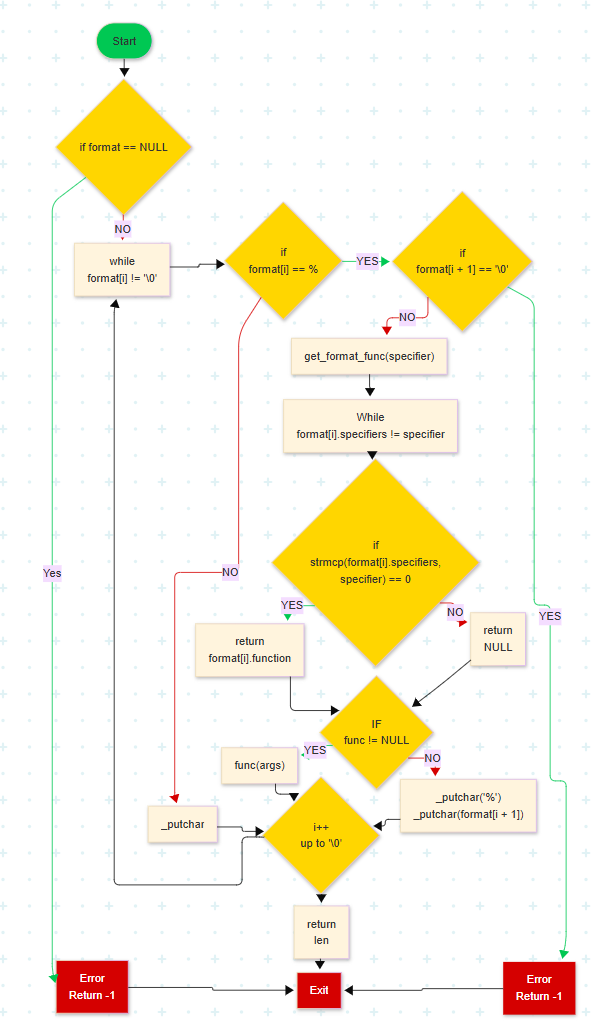
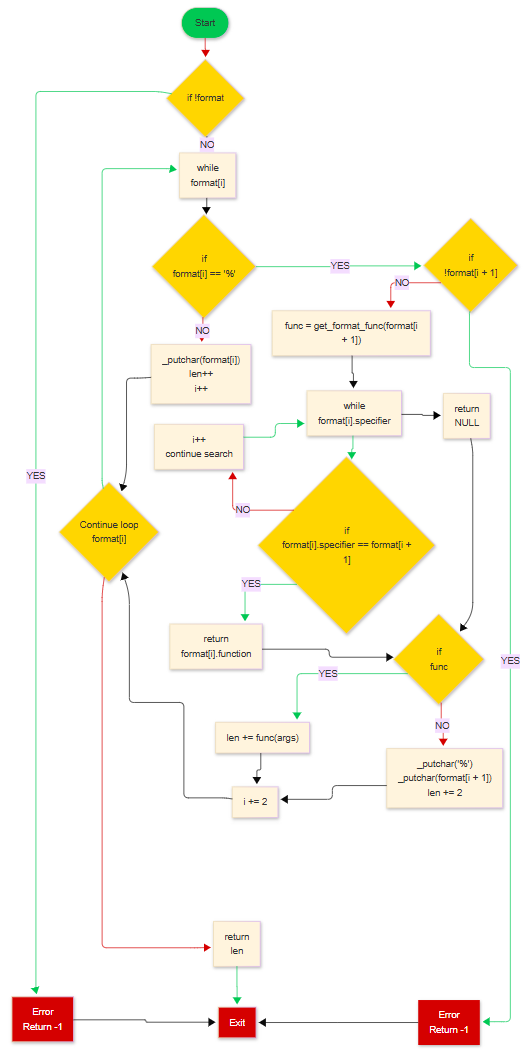
Optimize _printf implementation and enhance performance; refactor format handling and error management

diff --git a/get_format.c b/get_format.c
@@ -1,31 +1,29 @@
 #include "main.h"
-#include <stdlib.h>
 #include <stdarg.h>
-#include <string.h>
+#include <stddef.h>
 
 /**
  * get_format_func - Retrieves the function associated with a format specifier
- * @specifier: The format specifier to look for
+ * @specifier: The format specifier character to look for
  *
  * Return: Pointer to the function that handles the format specifier,
  * or NULL if not found.
  */
 
-int (*get_format_func(char *specifier))(va_list)
+int (*get_format_func(char specifier))(va_list)
 {
 	print_t format[] = {
-		{"c", print_char},
-		{"s", print_string},
-		{"%", print_percent},
-		{"d", print_decimal},
-		{"i", print_int},
-		{NULL, NULL}};
+		{'c', print_char},
+		{'s', print_string},
+		{'%', print_percent},
+		{'d', print_decimal},
+		{'i', print_int},
+		{'\0', NULL}};
+	int i = 0;
 
-int i = 0;
-
-	while (format[i].specifiers != NULL)
+	while (format[i].specifier)
 	{
-		if (strcmp(format[i].specifiers, specifier) == 0)
+		if (format[i].specifier == specifier)
 			return (format[i].function);
 		i++;
 	}

diff --git a/format.c b/format.c
@@ -66,9 +66,9 @@ int print_int(va_list args)
 {
 	int n = va_arg(args, int);
 	unsigned int num;
-	int divisor = 1;
-	unsigned int temp;
 	int count = 0;
+	char buffer[12];
+	int i = 0;
 
 	if (n < 0)
 	{
@@ -77,24 +77,26 @@ int print_int(va_list args)
 		num = -n;
 	}
 	else
-	{
 		num = n;
+
+	if (num == 0)
+	{
+		_putchar('0');
+		return (count + 1);
 	}
 
-	temp = num;
-	while (temp / 10 != 0)
+	while (num > 0)
 	{
-		divisor *= 10;
-		temp /= 10;
+		buffer[i++] = (num % 10) + '0';
+		num /= 10;
 	}
 
-	while (divisor != 0)
+	while (--i >= 0)
 	{
-		_putchar((num / divisor) + '0');
+		_putchar(buffer[i]);
 		count++;
-		num %= divisor;
-		divisor /= 10;
 	}
+
 	return (count);
 }
 

diff --git a/_printf.c b/_printf.c
@@ -15,25 +15,20 @@ int _printf(const char *format, ...)
 	va_list args;
 	int len = 0;
 	int i = 0;
-	char specifier[2];
 	int (*func)(va_list);
 
-	va_start(args, format);
-	if (format == NULL)
+	if (!format)
 		return (-1);
-	while (format[i] != '\0')
+	va_start(args, format);
+	while (format[i])
 	{
 		if (format[i] == '%')
 		{
-			if (format[i + 1] == '\0')
+			if (!format[i + 1])
 				return (-1);
-			specifier[0] = format[i + 1];
-			specifier[1] = '\0';
-			func = get_format_func(specifier);
-			if (func != NULL)
-			{
+			func = get_format_func(format[i + 1]);
+			if (func)
 				len += func(args);
-			}
 			else
 			{
 				_putchar('%');

diff --git a/main.h b/main.h
@@ -13,7 +13,7 @@
 
 typedef struct print
 {
-	char *specifiers;
+	char specifier;
 	int (*function)(va_list);
 } print_t;
 
@@ -21,7 +21,7 @@ int _putchar(char c);
 
 int _printf(const char *format, ...);
 
-int (*get_format_func(char *specifier))(va_list);
+int (*get_format_func(char specifier))(va_list);
 
 int print_char(va_list args);
 
@@ -32,7 +32,5 @@ int print_percent(va_list args);
 int print_int(va_list args);
 
 int print_decimal(va_list args);
-
-
 
 #endif

diff --git a/README.md b/README.md
@@ -25,6 +25,7 @@ Ce projet implémente une version simplifiée de la fonction `printf` de la bibl
 - ✅ Support des arguments variables
 - ✅ Retourne le nombre de caractères imprimés
 - ✅ Gestion des erreurs pour les spécificateurs non reconnus
+- ✅ Code optimisé et simplifié pour de meilleures performances
 - ✅ Code conforme aux standards de codage Holberton
 
 ## 🚀 Installation
@@ -82,26 +83,27 @@ holbertonschool-printf/
 ### Description des fichiers
 
 #### `main.h`
-Contient toutes les déclarations de fonctions et la structure `print_t` utilisée pour mapper les spécificateurs aux fonctions.
+Contient toutes les déclarations de fonctions et la structure `print_t` optimisée qui utilise des caractères simples au lieu de chaînes pour mapper les spécificateurs aux fonctions.
 
 #### `_printf.c`
-Implémente la fonction principale qui :
-- Parse la chaîne de format
-- Identifie les spécificateurs de format
-- Appelle les fonctions appropriées
-- Compte les caractères imprimés
+Implémente la fonction principale simplifiée qui :
+- Parse la chaîne de format caractère par caractère
+- Identifie les spécificateurs de format directement
+- Appelle les fonctions appropriées sans allocation temporaire
+- Compte précisément les caractères imprimés
 
 #### `get_format.c`
-Contient la fonction `get_format_func` qui :
-- Recherche le spécificateur dans le tableau de formats
+Contient la fonction `get_format_func` optimisée qui :
+- Compare directement les caractères de spécificateurs (plus rapide)
+- Utilise une structure simplifiée sans dépendances externes
 - Retourne un pointeur vers la fonction appropriée
 
 #### `format.c`
-Implémente les fonctions d'impression :
-- `print_char()` - Imprime un caractère
-- `print_string()` - Imprime une chaîne
-- `print_percent()` - Imprime le caractère %
-- `print_int()` - Imprime un entier (spécificateur %i)
+Implémente les fonctions d'impression optimisées :
+- `print_char()` - Imprime un caractère et retourne 1
+- `print_string()` - Imprime une chaîne et gère les valeurs NULL
+- `print_percent()` - Imprime le caractère % et retourne 1
+- `print_int()` - Imprime un entier avec algorithme optimisé (spécificateur %i)
 - `print_decimal()` - Imprime un entier décimal (spécificateur %d)
 
 ## 🔧 Compilation
@@ -202,19 +204,53 @@ int main(void)
 
 ## 🛠 Fonctionnement interne
 
-### Algorithme principal :
+### Algorithme principal (optimisé) :
 
 1. **Initialisation** : Setup des variables et de `va_list`
-2. **Parsing** : Parcours caractère par caractère de la chaîne de format
-3. **Détection** : Identification des spécificateurs (`%c`, `%s`, `%d`, `%i`, `%%`)
-4. **Exécution** : Appel de la fonction appropriée pour chaque spécificateur
-5. **Comptage** : Suivi du nombre de caractères imprimés
-6. **Retour** : Retourne le nombre total de caractères
+2. **Validation** : Vérification que `format` n'est pas NULL
+3. **Parsing** : Parcours direct caractère par caractère de la chaîne de format
+4. **Détection** : Identification des spécificateurs (`%c`, `%s`, `%d`, `%i`, `%%`) sans allocation temporaire
+5. **Exécution** : Appel direct de la fonction appropriée pour chaque spécificateur
+6. **Comptage** : Accumulation précise du nombre de caractères imprimés
+7. **Retour** : Retourne le nombre total de caractères
+
+### Optimisations implémentées :
+- **Comparaison directe** de caractères au lieu de chaînes (élimination de `strcmp`)
+- **Algorithme d'impression d'entiers** avec buffer temporaire (moins de divisions)
+- **Élimination des allocations** temporaires (tableau `specifier`)
+- **Gestion robuste** des cas limites (`INT_MIN`, chaînes NULL)
 
 ### Gestion des erreurs :
+- Format NULL : Retourne -1
+- Format se terminant par `%` : Retourne -1
 - Spécificateurs non reconnus : Imprime littéralement `%` + caractère
-- Format se terminant par `%` : Arrête le traitement
-- Chaîne NULL : Gérée dans `print_string()`
+- Chaîne NULL : Affiche `"(null)"` comme le vrai `printf`
+
+## 🚀 Performance et Architecture
+
+### Optimisations implémentées :
+
+#### **Structure de données simplifiée**
+```c
+typedef struct print
+{
+    char specifier;        // Caractère simple au lieu de chaîne
+    int (*function)(va_list);  // Fonction retournant le nb de caractères
+} print_t;
+```
+
+#### **Algorithme d'impression d'entiers optimisé**
+- Utilisation d'un buffer temporaire au lieu de divisions répétées
+- Gestion robuste de `INT_MIN` avec `unsigned int`
+- Une seule passe pour compter et imprimer
+
+#### **Comparaisons directes**
+- Élimination de `strcmp()` pour des comparaisons de caractères
+- Réduction des dépendances (pas de `<string.h>`)
+
+### Complexité :
+- **Temps** : O(n) où n est la longueur de la chaîne de format
+- **Espace** : O(1) pour les variables, O(k) pour le buffer d'entiers (k ≤ 12)
 
 ## 🤝 Contribution
 
@@ -226,7 +262,7 @@ Ce projet est développé à des fins éducatives dans le cadre de Holberton Sch
 
 ## 👥 Auteurs
 
-- **JordannM83 - Joshuaburle** - *Développeur principal* - [GitHub](https://github.com/JordannM83)
+- **JordannM83 - Joshuaburle** - *Développeur principaux* - [GitHub](https://github.com/JordannM83)
 
 ## Man Page Printf
 
